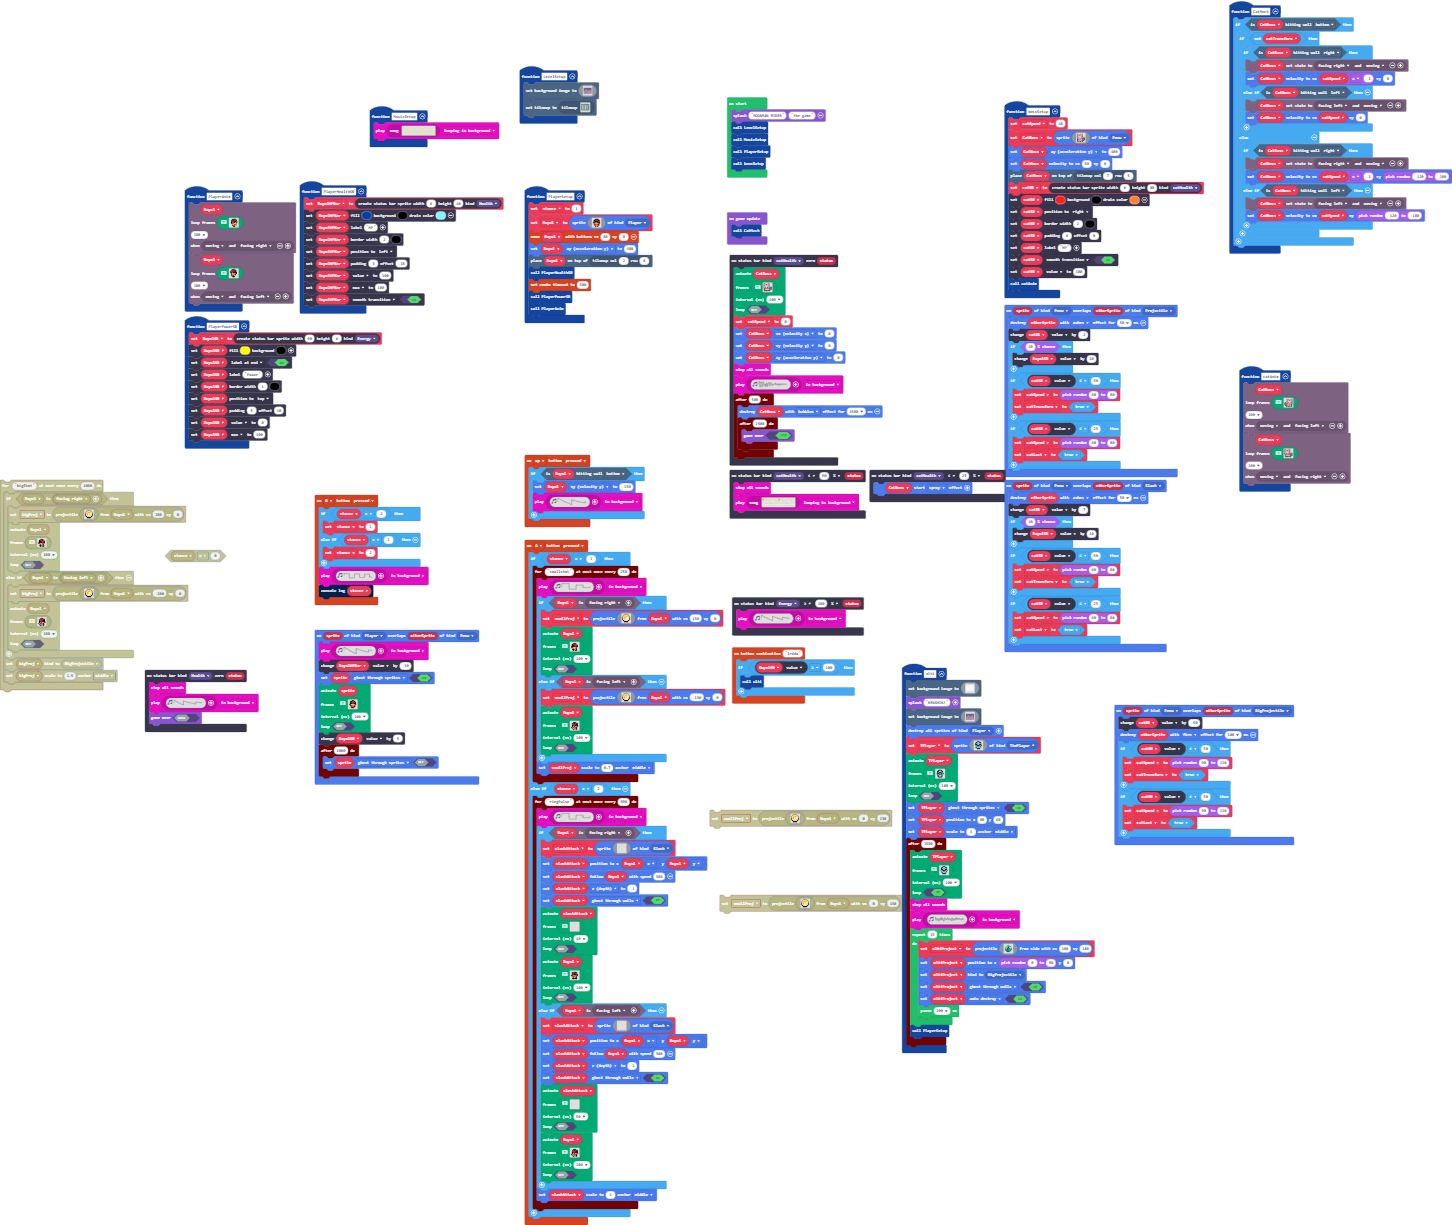
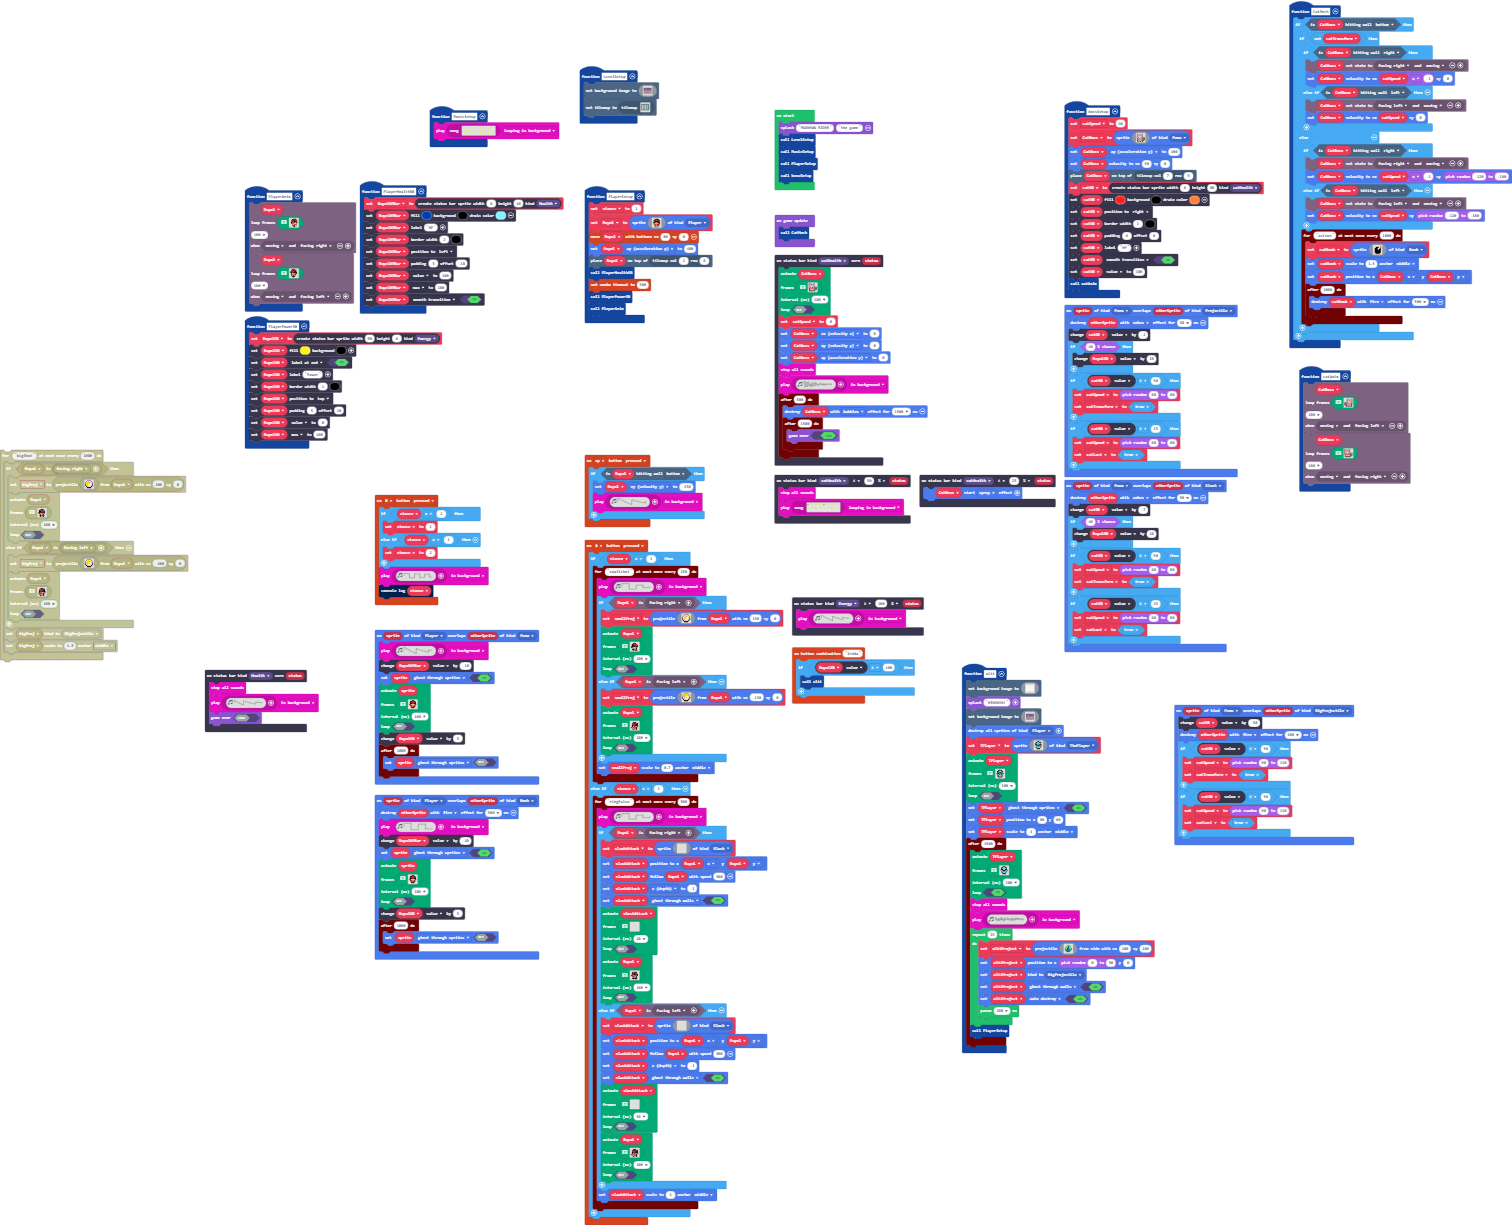
Update main.blocks, main.ts

Changed region(s): [[0.0, 0.0, 0.9917, 1.0], [0.124, 0.1241, 0.4649, 0.3722], [0.2479, 0.031, 0.4339, 0.1241]]

diff --git a/main.ts b/main.ts
@@ -4,6 +4,7 @@ namespace SpriteKind {
     export const ThePlayer = SpriteKind.create()
     export const Slash = SpriteKind.create()
     export const Map = SpriteKind.create()
+    export const Bomb = SpriteKind.create()
 }
 namespace StatusBarKind {
     export const catHealth = StatusBarKind.create()
@@ -1098,6 +1099,107 @@ sprites.onOverlap(SpriteKind.Peow, SpriteKind.Projectile, function (sprite, othe
         catLast = true
     }
 })
+sprites.onOverlap(SpriteKind.Player, SpriteKind.Bomb, function (sprite, otherSprite) {
+    sprites.destroy(otherSprite, effects.fire, 500)
+    music.play(music.createSoundEffect(WaveShape.Square, 300, 200, 235, 114, 75, SoundExpressionEffect.Vibrato, InterpolationCurve.Curve), music.PlaybackMode.InBackground)
+    RuyolHPBar.value += -10
+    sprite.setFlag(SpriteFlag.GhostThroughSprites, true)
+    animation.runImageAnimation(
+    sprite,
+    [img`
+        . . . . . . f f f f . . . . . . 
+        . . . . f f f 2 2 f f f . . . . 
+        . . . f f f 2 2 2 2 f f f . . . 
+        . . f f f e e e e e e f f f . . 
+        . . f f e 2 2 2 2 2 2 e e f . . 
+        . . f e 2 f f f f f f 2 e f . . 
+        . . f f f f e e e e f f f f . . 
+        . f f e f b f 4 4 f b f e f f . 
+        . f e e 4 1 d d d d 1 4 e e f . 
+        . . f e e d d d d d d e e f . . 
+        . . . f e e 4 4 4 4 e e f . . . 
+        . . e 4 f 2 2 2 2 2 2 f 4 e . . 
+        . . 4 d f 2 2 2 2 2 2 f d 4 . . 
+        . . 4 4 f 4 4 5 5 4 4 f 4 4 . . 
+        . . . . . f f f f f f . . . . . 
+        . . . . . f f . . f f . . . . . 
+        `,img`
+        . . . . . . . . . . . . . . . . 
+        . . . . . . 1 1 1 1 . . . . . . 
+        . . . . 1 1 1 1 1 1 1 1 . . . . 
+        . . . 1 1 1 1 1 1 1 1 1 1 . . . 
+        . . 1 1 1 1 1 1 1 1 1 1 1 1 . . 
+        . . 1 1 1 1 1 1 1 1 1 1 1 1 . . 
+        . 1 1 1 1 1 1 1 1 1 1 1 1 1 1 . 
+        . 1 1 1 1 1 1 1 1 1 1 1 1 1 1 . 
+        . . 1 1 1 1 1 1 1 1 1 1 1 1 . . 
+        . . 1 1 1 1 1 1 1 1 1 1 1 1 . . 
+        . . . 1 1 1 1 1 1 1 1 1 1 1 . . 
+        . . 1 1 1 1 1 1 1 1 1 1 1 1 . . 
+        . . 1 1 1 1 1 1 1 1 1 1 1 . . . 
+        . . . . 1 1 1 1 1 1 1 1 . . . . 
+        . . . . 1 1 1 1 1 1 1 . . . . . 
+        . . . . 1 1 1 . . . . . . . . . 
+        `,img`
+        . . . . . . f f f f . . . . . . 
+        . . . . f f f 2 2 f f f . . . . 
+        . . . f f f 2 2 2 2 f f f . . . 
+        . . f f f e e e e e e f f f . . 
+        . . f f e 2 2 2 2 2 2 e e f . . 
+        . . f e 2 f f f f f f 2 e f . . 
+        . . f f f f e e e e f f f f . . 
+        . f f e f b f 4 4 f b f e f f . 
+        . f e e 4 1 d d d d 1 4 e e f . 
+        . . f e e d d d d d d e e f . . 
+        . . . f e e 4 4 4 4 e e f . . . 
+        . . e 4 f 2 2 2 2 2 2 f 4 e . . 
+        . . 4 d f 2 2 2 2 2 2 f d 4 . . 
+        . . 4 4 f 4 4 5 5 4 4 f 4 4 . . 
+        . . . . . f f f f f f . . . . . 
+        . . . . . f f . . f f . . . . . 
+        `,img`
+        . . . . . . . . . . . . . . . . 
+        . . . . . . 1 1 1 1 . . . . . . 
+        . . . . 1 1 1 1 1 1 1 1 . . . . 
+        . . . 1 1 1 1 1 1 1 1 1 1 . . . 
+        . . 1 1 1 1 1 1 1 1 1 1 1 1 . . 
+        . . 1 1 1 1 1 1 1 1 1 1 1 1 . . 
+        . 1 1 1 1 1 1 1 1 1 1 1 1 1 1 . 
+        . 1 1 1 1 1 1 1 1 1 1 1 1 1 1 . 
+        . . 1 1 1 1 1 1 1 1 1 1 1 1 . . 
+        . . 1 1 1 1 1 1 1 1 1 1 1 1 . . 
+        . . 1 1 1 1 1 1 1 1 1 1 1 . . . 
+        . . 1 1 1 1 1 1 1 1 1 1 1 1 . . 
+        . . . 1 1 1 1 1 1 1 1 1 1 1 . . 
+        . . . . 1 1 1 1 1 1 1 1 . . . . 
+        . . . . . 1 1 1 1 1 1 1 . . . . 
+        . . . . . . . . . 1 1 1 . . . . 
+        `,img`
+        . . . . . . f f f f . . . . . . 
+        . . . . f f f 2 2 f f f . . . . 
+        . . . f f f 2 2 2 2 f f f . . . 
+        . . f f f e e e e e e f f f . . 
+        . . f f e 2 2 2 2 2 2 e e f . . 
+        . . f e 2 f f f f f f 2 e f . . 
+        . . f f f f e e e e f f f f . . 
+        . f f e f b f 4 4 f b f e f f . 
+        . f e e 4 1 d d d d 1 4 e e f . 
+        . . f e e d d d d d d e e f . . 
+        . . . f e e 4 4 4 4 e e f . . . 
+        . . e 4 f 2 2 2 2 2 2 f 4 e . . 
+        . . 4 d f 2 2 2 2 2 2 f d 4 . . 
+        . . 4 4 f 4 4 5 5 4 4 f 4 4 . . 
+        . . . . . f f f f f f . . . . . 
+        . . . . . f f . . f f . . . . . 
+        `],
+    100,
+    false
+    )
+    RuyolSB.value += 5
+    timer.after(1000, function () {
+        sprite.setFlag(SpriteFlag.GhostThroughSprites, false)
+    })
+})
 function CatMech () {
     if (CatBoss.isHittingTile(CollisionDirection.Bottom)) {
         if (!(catTransform)) {
@@ -1116,6 +1218,23 @@ function CatMech () {
                 characterAnimations.setCharacterState(CatBoss, characterAnimations.rule(Predicate.FacingLeft, Predicate.Moving))
                 CatBoss.setVelocity(catSpeed, randint(-120, -180))
             }
+            timer.throttle("action", 1800, function () {
+                catBomb = sprites.create(img`
+                    . . . . . . 4 . 
+                    . 1 f f f 1 4 4 
+                    . f f f 1 1 f . 
+                    . f f f 1 f f . 
+                    . f f f f f f . 
+                    . f f f f f f . 
+                    . f f f f f f . 
+                    . . f f f f . . 
+                    `, SpriteKind.Bomb)
+                catBomb.setScale(1.5, ScaleAnchor.Middle)
+                catBomb.setPosition(CatBoss.x, CatBoss.y)
+                timer.after(1000, function () {
+                    sprites.destroy(catBomb, effects.fire, 500)
+                })
+            })
         }
     }
 }
@@ -1874,6 +1993,7 @@ function PlayerAnim () {
 }
 let ultiProject: Sprite = null
 let TPlayer: Sprite = null
+let catBomb: Sprite = null
 let catLast = false
 let catTransform = false
 let catSB: StatusBarSprite = null
